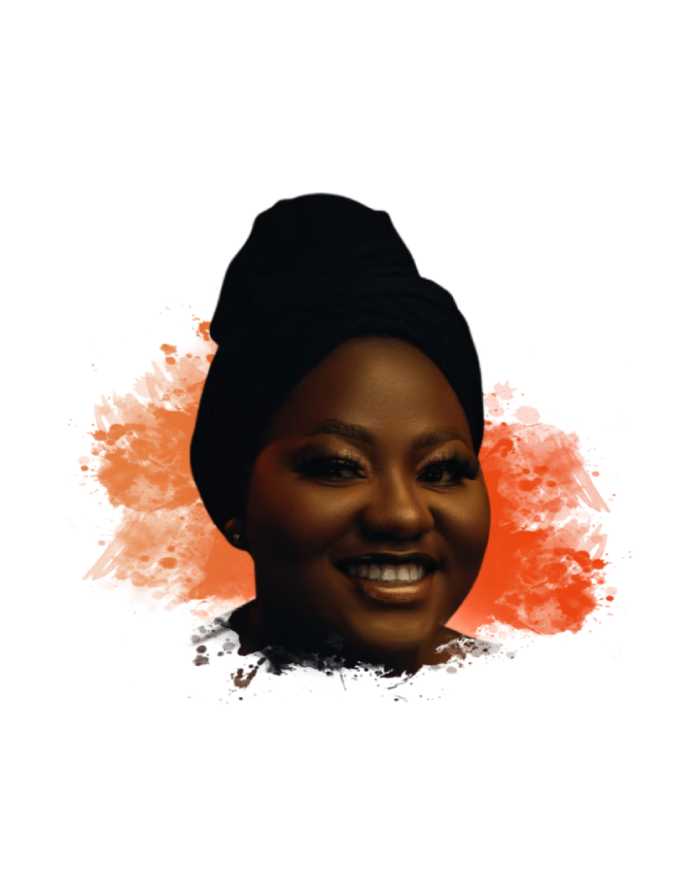
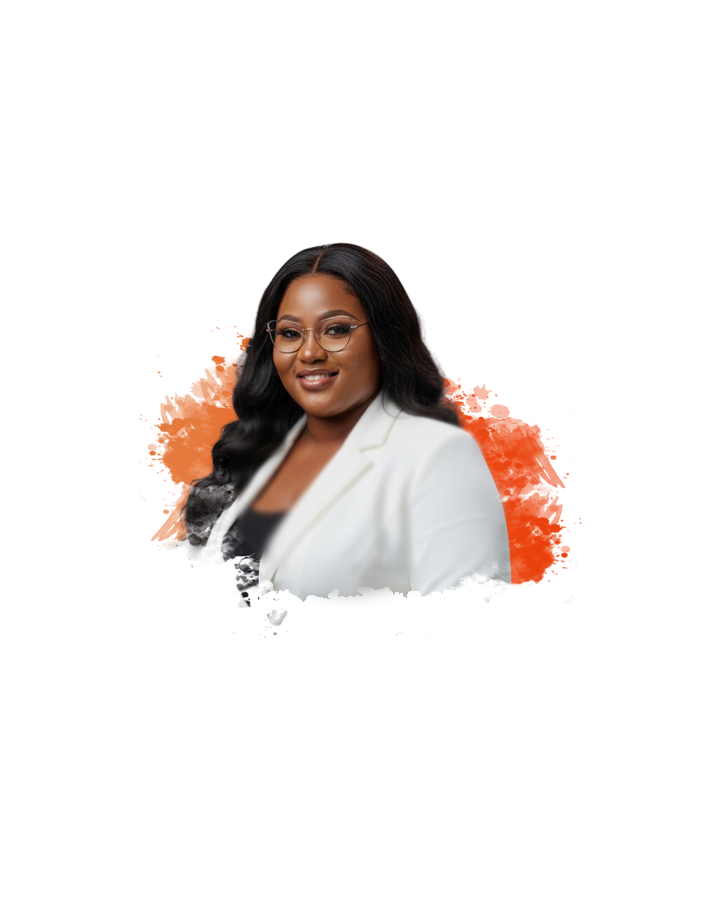
Thynkdigital

Changed region(s): [[0.09, 0.216, 0.87, 0.8023]]

diff --git a/index.html b/index.html
@@ -105,9 +105,9 @@
         <figure class="hero-banner">
 
           <picture>
-            <source srcset="./assets/images/hero3.png" media="(min-width: 668px)">
-            <source srcset="./assets/images/hero3.png" media="(min-width: 500px)">
-            <img src="./assets/images/hero3.png" alt="A man in a blue shirt with a happy expression"
+            <source srcset="./assets/images/hero-banner1.png" media="(min-width: 668px)">
+            <source srcset="./assets/images/hero-banner-md2.png" media="(min-width: 500px)">
+            <img src="./assets/images/hero-banner-sm1.png" alt="A man in a blue shirt with a happy expression"
               class="w-100">
           </picture>
 
@@ -226,7 +226,7 @@
       <section class="about" id="about">
 
         <figure class="about-banner">
-          <img src="./assets/images/about.png" alt="A man in a alice blue shirt with a thinking expression"
+          <img src="./assets/images/about1.png" alt=""
             class="w-100">
         </figure>
 

diff --git a/assets/css/style.css b/assets/css/style.css
@@ -468,13 +468,13 @@ main { overflow-x: hidden; }
   flex-direction: column;
   justify-content: center;
   align-items: center;
-  padding-top: 115px;
+  padding-top: 150px;
   margin-bottom: var(--section-padding);
 }
 
 .hero-banner {
-  max-width: 500px;
-  width: 125%;
+  max-width: 400px;
+  width: 100%;
   margin-bottom: 30px;
 }
 
@@ -573,7 +573,7 @@ main { overflow-x: hidden; }
 .about { padding-block: var(--section-padding); }
 
 .about-banner {
-  max-width: 400px;
+  max-width: 500px;
   margin-inline: auto;
   margin-bottom: 80px;
 }
@@ -1140,13 +1140,13 @@ textarea.input-field {
 
   .hero {
     position: relative;
-    padding-top: 0;
+    padding-top: 50px;
     height: 100vh;
   }
 
   .hero-banner {
     max-width: unset;
-    height: 100%;
+    height: 90vh;
     margin-bottom: 0;
   }
 
